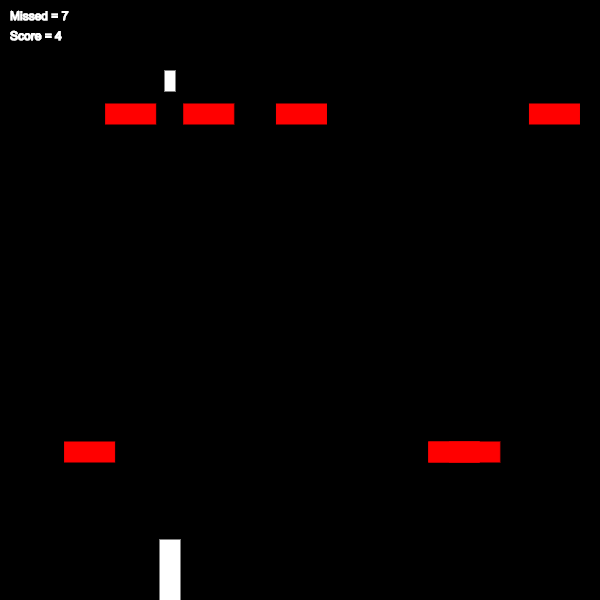
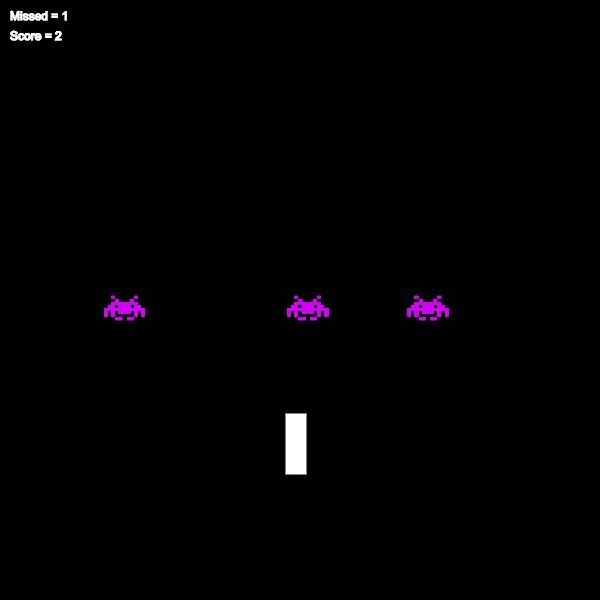
image added for invaders and output updated

diff --git a/public/invader.js b/public/invader.js
@@ -4,7 +4,7 @@ class Invader{
         this.velocity=createVector(0,0);
         this.acceleration=createVector(0,0);
         this.width=50;
-        this.height=20;
+        this.height=40;
     }
     update(){
         this.velocity.add(this.acceleration);
@@ -15,8 +15,9 @@ class Invader{
         this.acceleration.y=force;
     }
     show(){
-        stroke(255,0,0);
-        fill(255,0,0);
-        rect(this.pos.x,this.pos.y,this.width,this.height);
+        // stroke(255,0,0);
+        // fill(255,0,0);
+        image(invaderImage,this.pos.x,this.pos.y,this.width,this.height);
+        // rect(this.pos.x,this.pos.y,this.width,this.height);
     }
 }

diff --git a/public/sketch.js b/public/sketch.js
@@ -4,8 +4,10 @@ var key=0;
 var shootSound;
 var invaderRate=200;
 var productionRate=3;//ranges from 1 to 10 for the current canvas width
+var invaderImage;
 function preload(){
     shootSound=loadSound("./gunsound.mp3");
+    invaderImage=loadImage("./invaderimage.png");
 }
 function setup(){
     createCanvas(600,600);
